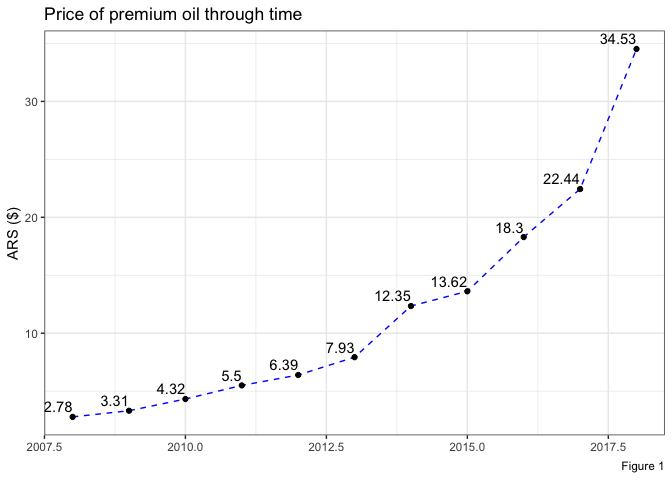
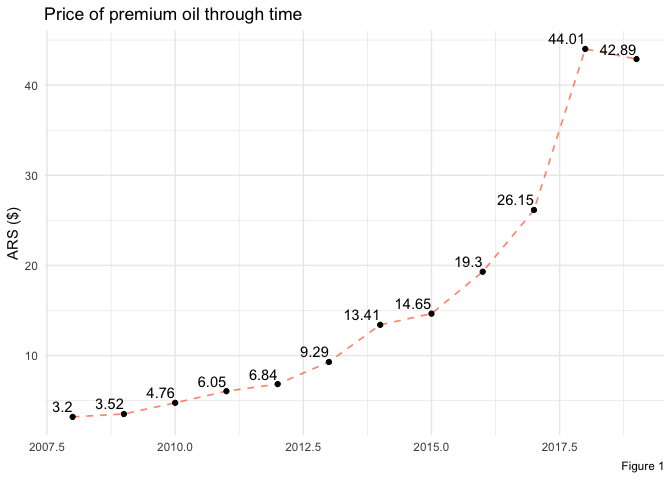
Initial structure of time-spent.

diff --git a/time-estimation/README.md b/time-estimation/README.md
@@ -7,4 +7,4 @@ This project consists on estimating time-spent by drivers on AUSA toll booths in
 
 ### Exploratory analysis of the oil prices dataset
 
-![](README_files/figure-markdown_github/pricethroughtime-1.png)
+The oil prices dataset consists of monthly prices of different types of oil: super, premium, gasoil, and euro. The four of them experienced a steady increase since 2008 until 2018, which is illustrated in Figure 1 for the particular case of premium oil. ![](README_files/figure-markdown_github/pricethroughtime-1.png)
